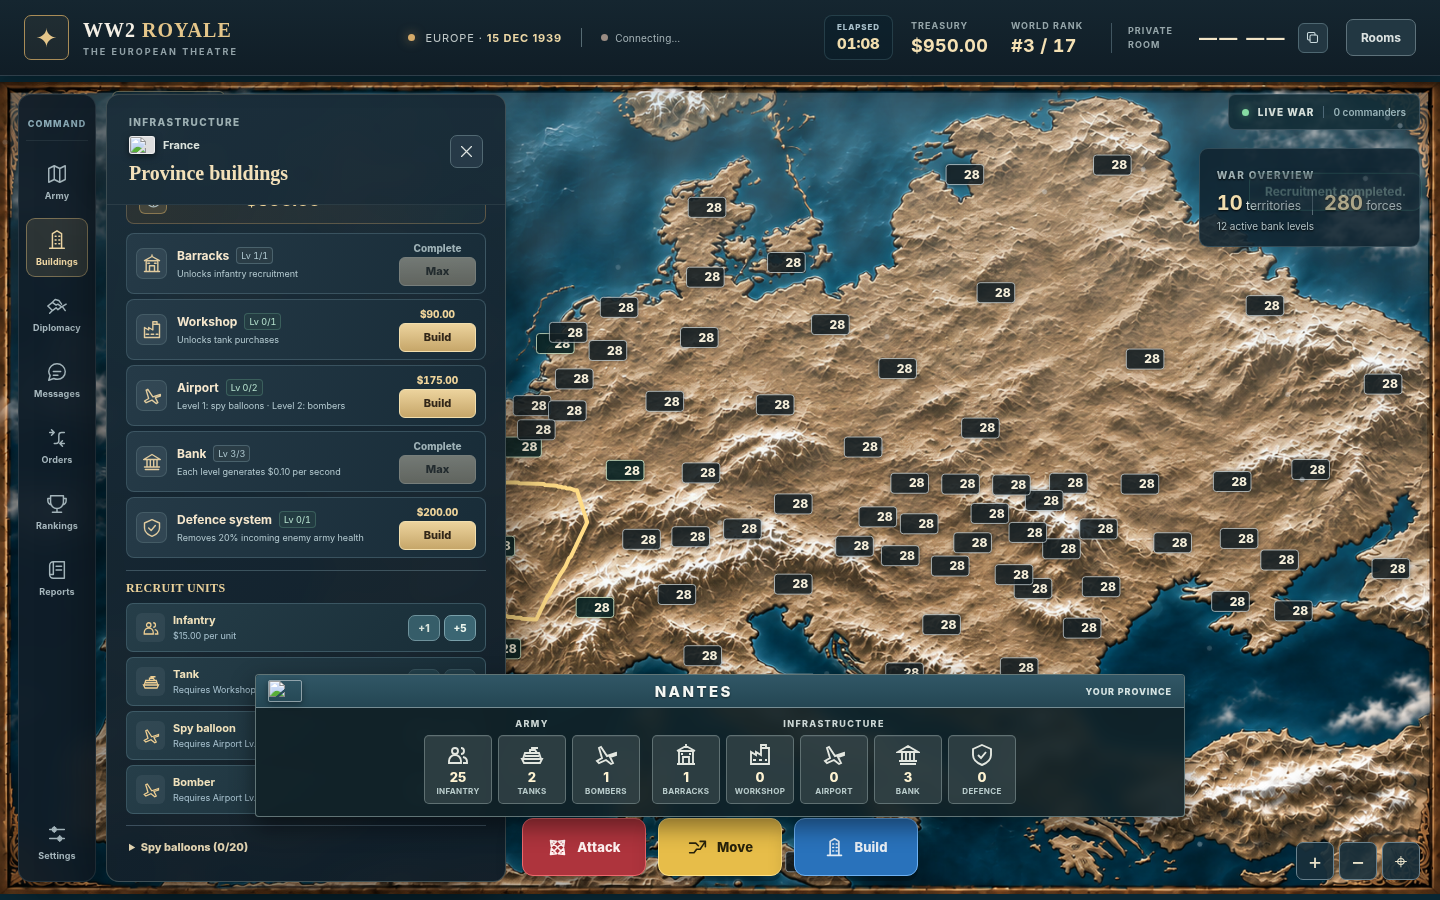
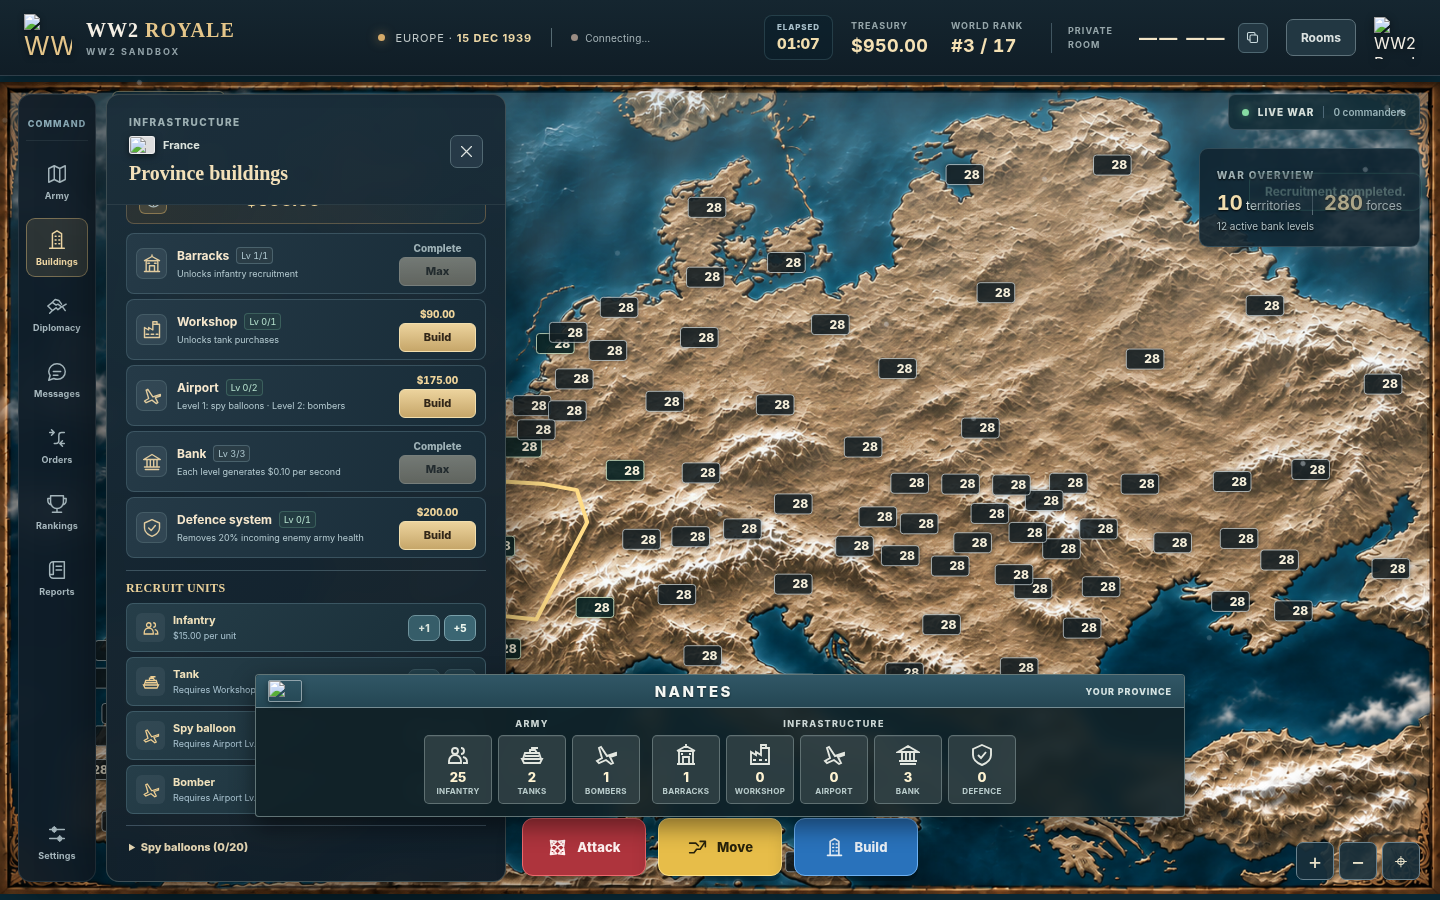
Add files via upload

diff --git a/client/main.js b/client/main.js
@@ -687,7 +687,11 @@ function draw(){
     ctx.drawImage(currentSeasonImage,0,0);
     ctx.restore();
   }
-  if(provinceBorderCanvas)ctx.drawImage(provinceBorderCanvas,0,0); else if(borderImage)ctx.drawImage(borderImage,0,0); if(territoryBorderCanvas)ctx.drawImage(territoryBorderCanvas,0,0);drawLabels();drawMovements();drawDraftRoute();
+  // Province boundaries use the shared, pixel-aligned border asset.
+  // Previous release referenced a removed canvas and crashed all map rendering.
+  if(borderImage)ctx.drawImage(borderImage,0,0);
+  if(territoryBorderCanvas)ctx.drawImage(territoryBorderCanvas,0,0);
+  drawLabels();drawMovements();drawDraftRoute();
   drawOutline(hovered,'rgba(251,236,157,.8)',2.7);drawOutline(draftTarget?null:selected,'#ffdc87',4);drawOutline(redirectTarget,'#ffbc76',3);
   drawSpyBalloons();drawTroops();ctx.restore();if(game?.movements?.length)queueRender();
 }
@@ -982,14 +986,20 @@ function renderRankings(){
   }
 }
 function renderNationChoices(){
-  if(!map)return;
-  const key=(game?.occupied||[]).join(',')+'|'+assigned+'|'+isPublicMatch;if(key===lastChoiceKey)return;lastChoiceKey=key;
+  if(!map?.nations)return;
+  // Use the authoritative map metadata, not the separately populated label cache.
+  // The lobby can receive a server snapshot while seasonal images are still loading.
+  const playable=Object.keys(map.nations).filter(id=>map.nations[id].playable);
+  const names=playable.map(id=>map.nations[id].name || nationNames[id] || id);
+  const key=JSON.stringify([(game?.occupied||[]),assigned,isPublicMatch,playable,names]);
+  if(key===lastChoiceKey)return;
+  lastChoiceKey=key;
   const out=$('nationChoices');out.replaceChildren();
   const random=createButton('🎲 Pick random available nation',()=>socket.emit('chooseRandomNation'), 'nation-choice random-nation');
   if(assigned)random.disabled=true;out.append(random);
-  for(const id of Object.keys(map.nations).filter(id=>map.nations[id].playable)){
-    const occupied=game?.occupied?.includes(id)&&assigned!==id;
-    const b=createButton(`${nationNames[id]} ${occupied?'(TAKEN)':''}`,()=>socket.emit('chooseNation',id),'nation-choice');b.disabled=!!occupied||!!assigned;
+  for(let i=0;i<playable.length;i++){
+    const id=playable[i],occupied=game?.occupied?.includes(id)&&assigned!==id;
+    const b=createButton(`${names[i]}${occupied?' (TAKEN)':''}`,()=>socket.emit('chooseNation',id),'nation-choice');b.disabled=!!occupied||!!assigned;
     b.prepend(nationFlag(id));out.append(b);
   }
 }
@@ -1380,10 +1390,14 @@ setInterval(()=>{
       image('/assets/units/infantry.svg'),image('/assets/units/tank.svg'),image('/assets/units/bomber.svg'),image('/assets/units/balloon.svg')
     ]);
     map=data;mapImage=terrain;territoryImage=territories;borderImage=borders; unitArt={infantry:infantryIcon,tank:tankIcon,bomber:bomberIcon,balloon:balloonIcon};
+    // Populate nation labels before awaiting optional seasonal artwork. The lobby
+    // can render during these image loads and must never display "undefined".
+    for(const [id,nation] of Object.entries(map.nations)){nationColor[id]=nation.color;nationNames[id]=nation.name;}
+    lastChoiceKey='';
+    renderNationChoices();
     for(const season of ['spring','summer','autumn','winter']){try{seasonAssets[season]=await image('/assets/season-'+season+'.png');}catch(error){console.warn('Missing seasonal asset',season,error);}}
     currentSeasonImage=seasonAssets[currentSeason]||null;
     for(const p of map.provinces)definition.set(p.id,p);
-    for(const [id,nation] of Object.entries(map.nations)){nationColor[id]=nation.color;nationNames[id]=nation.name;}
     const scratch=document.createElement('canvas');scratch.width=map.width;scratch.height=map.height;
     const sc=scratch.getContext('2d',{willReadFrequently:true});sc.drawImage(territoryImage,0,0);
     idPixels=sc.getImageData(0,0,map.width,map.height).data;

diff --git a/client/style.css b/client/style.css
@@ -524,3 +524,46 @@ button:active:not(:disabled),.quick-command .quick-action:active:not(:disabled),
   .header-corner-logo{width:30px;height:30px;flex-basis:30px;}
   .lobby-brand-logo{width:min(178px,46vw);max-height:155px;margin:-5px auto 4px;}
 }
+
+/* 1.19.4 — mobile header: two non-overlapping rows for branding and HUD. */
+@media (max-width:700px), (pointer:coarse) and (max-width:920px) {
+  .topbar {
+    height:100px;
+    min-height:100px;
+    display:grid;
+    grid-template-columns:minmax(0,1fr);
+    grid-template-rows:40px 42px;
+    align-content:center;
+    justify-items:stretch;
+    row-gap:4px;
+    padding:4px 10px;
+    overflow:hidden;
+  }
+  .brand {
+    grid-row:1;
+    min-width:0;
+    width:100%;
+    justify-content:flex-start;
+  }
+  .brand-main {font-size:16px;line-height:1.2;white-space:nowrap;}
+  .header-right {
+    grid-row:2;
+    min-width:0;
+    max-width:100%;
+    display:flex;
+    align-items:center;
+    justify-content:space-between;
+    gap:5px;
+  }
+  .elapsed-hud {flex:0 0 auto;min-width:60px;margin:0;}
+  .header-right .hud-stat {flex:0 1 auto;min-width:0;}
+  .header-right .server-strip {flex:0 1 auto;min-width:0;overflow:hidden;}
+  .header-right .room-value {overflow:hidden;text-overflow:ellipsis;white-space:nowrap;}
+  .header-right .header-button {flex:0 0 auto;min-height:34px;padding:6px 8px;}
+  .header-corner-logo {width:29px;height:29px;flex:0 0 29px;object-fit:contain;}
+  .layout {height:calc(100dvh - 100px);}
+}
+@media (max-width:385px) {
+  .header-right .server-strip {display:none;}
+  .header-right {gap:7px;}
+}

diff --git a/client/index.html b/client/index.html
@@ -6,7 +6,7 @@
   <link rel="icon" type="image/x-icon" href="/favicon.ico?v=1191" sizes="any">
   <link rel="icon" type="image/png" href="/favicon-256.png?v=1191" sizes="256x256">
   <link rel="apple-touch-icon" href="/apple-touch-icon.png?v=1191">
-  <link rel="stylesheet" href="/style.css"><script defer src="/main.js"></script>
+  <link rel="stylesheet" href="/style.css?v=1192"><script defer src="/main.js?v=1192"></script>
 </head>
 <body>
 <!-- Lightweight inline icons keep the game fully playable offline. -->

diff --git a/README.md b/README.md
@@ -1,3 +1,27 @@
+# WW2 Royale — Version 1.19.3 (Nation Selection Hotfix)
+
+Corrects the country selection bug where playable nations were labelled `undefined` when the menu appeared before the country-name cache was populated. The picker now uses the authoritative nation names in `shared/map.json`, includes those names in its render cache key, and initializes nation names before loading optional seasonal artwork. All nine playable nations have proper labels, including Portugal.
+
+This is a client-focused hotfix. All 114 provinces, movement, diplomacy, economy, logo assets, music and the 6-of-9 public matchmaking behavior are unchanged.
+
+To update ww2royale.com, extract this ZIP and upload its contents to the root of your existing GitHub repository (the folder containing `package.json`). Commit, deploy latest commit in Render, then hard-refresh the website.
+
+Note: Deploying restarts the in-memory game rooms; active matches will be reset.
+
+---
+
+# WW2 Royale — Version 1.19.2 hotfix
+
+**Critical fix:** Version 1.19.1 referenced a removed browser variable while drawing borders. This produced a JavaScript `ReferenceError` during every map render, preventing the province outlines and troops from appearing.
+
+**Fix:** Map rendering now uses the existing shared `client/assets/province-lines.png` border layer directly, followed by the country-owner outlines, labels, movements, and troop icons. This preserves all 1.19.1 branding, gameplay, the nine-nation roster, and multiplayer features.
+
+Browser assets `main.js` and `style.css` are versioned in `index.html` to avoid stale scripts after Render deployment. The new regression test catches this exact failure. The optional browser smoke test `python tools/offline_browser_116.py` verifies map rendering on desktop and iPhone-sized viewports and reports JavaScript errors.
+
+**Deploy:** Upload the ZIP contents to the root of the existing GitHub repository (where `package.json` lives). Commit and deploy the latest commit through Render. Visit https://ww2royale.com and hard-refresh (`Ctrl+Shift+R`). Existing in-memory game rooms reset when the server redeploys.
+
+---
+
 ## Version 1.19.1 — Official logo integration
 
 - Added the supplied transparent WW2 Royale emblem to the **home screen**, replacing the placeholder star with a prominent full-size logo.
